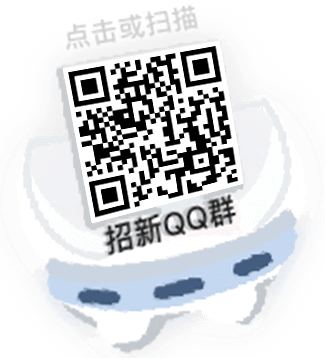
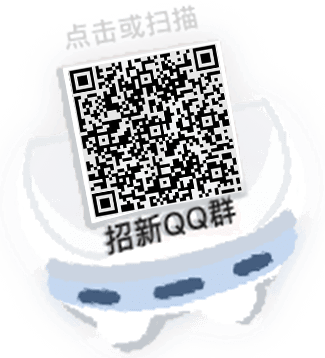
:speech_balloon: update:2021 new related QR codes,qq group numbers and some data

Changed region(s): [[0.2154, 0.1229, 0.7692, 0.6145]]

diff --git a/src/pages/productintro/index.tsx b/src/pages/productintro/index.tsx
@@ -41,7 +41,7 @@ const ProductIntro: React.FC<RouteComponentProps> = props => {
       category: 'ProductIntro',
       action: 'Join our welcome group by Click'
     });
-    window.location.href = 'https://qm.qq.com/cgi-bin/qm/qr?k=dvvO-DkJMmfFeiMtK4I_sHCkYbqLbjao&authKey=YZl1jgj93dm0iJ5UonAg1BrNcd1TGcaTXidG8MY9mHRlWNA/IgfWisGuMJa1ImpD&noverify=0';
+    window.location.href = 'https://qm.qq.com/cgi-bin/qm/qr?k=6AH9HIi3BxjQAw6BJruv7utQ3HZe52R2&jump_from=webapi';
   };
 
   useEffect(() => {
@@ -319,9 +319,9 @@ const ProductIntro: React.FC<RouteComponentProps> = props => {
         <div className="QRcode-modal-background">
           <div className="QRcode-text-container">
             <i id="modal-close-btn" onClick={() => { setIsShowModal(false) }}><img src={closeCircle} /></i>
-            <p>2020家园工作室招新QQ群</p>
+            <p>2021家园工作室招新QQ群</p>
             <img src={QRcode} alt="二维码" id="qrcode-img" onClick={handleQRcodeClcik} />
-            <p>群号1150346484</p>
+            <p>群号650152492</p>
             <p>扫描或点击</p>
             <p>资料&解答&关于我们</p>
             <p>欢迎来玩</p>

diff --git a/public/index.html b/public/index.html
@@ -5,14 +5,14 @@
   <meta name="viewport" content="width=device-width, initial-scale=1.0, user-scalable=0">
   <meta http-equiv="X-UA-Compatible" content="ie=edge">
   <meta name="keywords" content="南昌大学,家园工作室,招新,ncuhome,HR">
-  <meta name="description" content="家园工作室2020年秋季招新">
+  <meta name="description" content="家园工作室2021年秋季招新">
   <meta name="theme-color" content="#000000">
   <style type="text/css">
     body{
       background: #000;
     }
   </style>
-  <title>家园工作室2020年秋季招新</title>
+  <title>家园工作室2021年秋季招新</title>
 </head>
 <body>
   <noscript>You need to enable JavaScript to run this app.</noscript>

diff --git a/src/pages/application/index.tsx b/src/pages/application/index.tsx
@@ -110,7 +110,7 @@ const Application: React.FC<RouteComponentProps> = props => {
       category: 'Application',
       action: 'Join our welcome group by Click'
     });
-    window.location.href = 'https://qm.qq.com/cgi-bin/qm/qr?k=dvvO-DkJMmfFeiMtK4I_sHCkYbqLbjao&authKey=YZl1jgj93dm0iJ5UonAg1BrNcd1TGcaTXidG8MY9mHRlWNA/IgfWisGuMJa1ImpD&noverify=0';
+    window.location.href = 'https://qm.qq.com/cgi-bin/qm/qr?k=6AH9HIi3BxjQAw6BJruv7utQ3HZe52R2&jump_from=webapi';
   };
 
   useEffect(() => {

diff --git a/src/config.tsx b/src/config.tsx
@@ -29,7 +29,7 @@ export default {
     '这里是家园工作室',
     '一个认真且有趣的互联网社团',
     '从南大第一个校园BBS到第一个学生服务APP',
-    '73000+用户的校园生活因此更加便利',
+    '191000+用户的校园生活因此更加便利',
     '五大运营平台浏览量已超150万 校园动态、互联鲜闻触手可及',
     '去往互联网的明天，和我们一起吗？'
   ],
